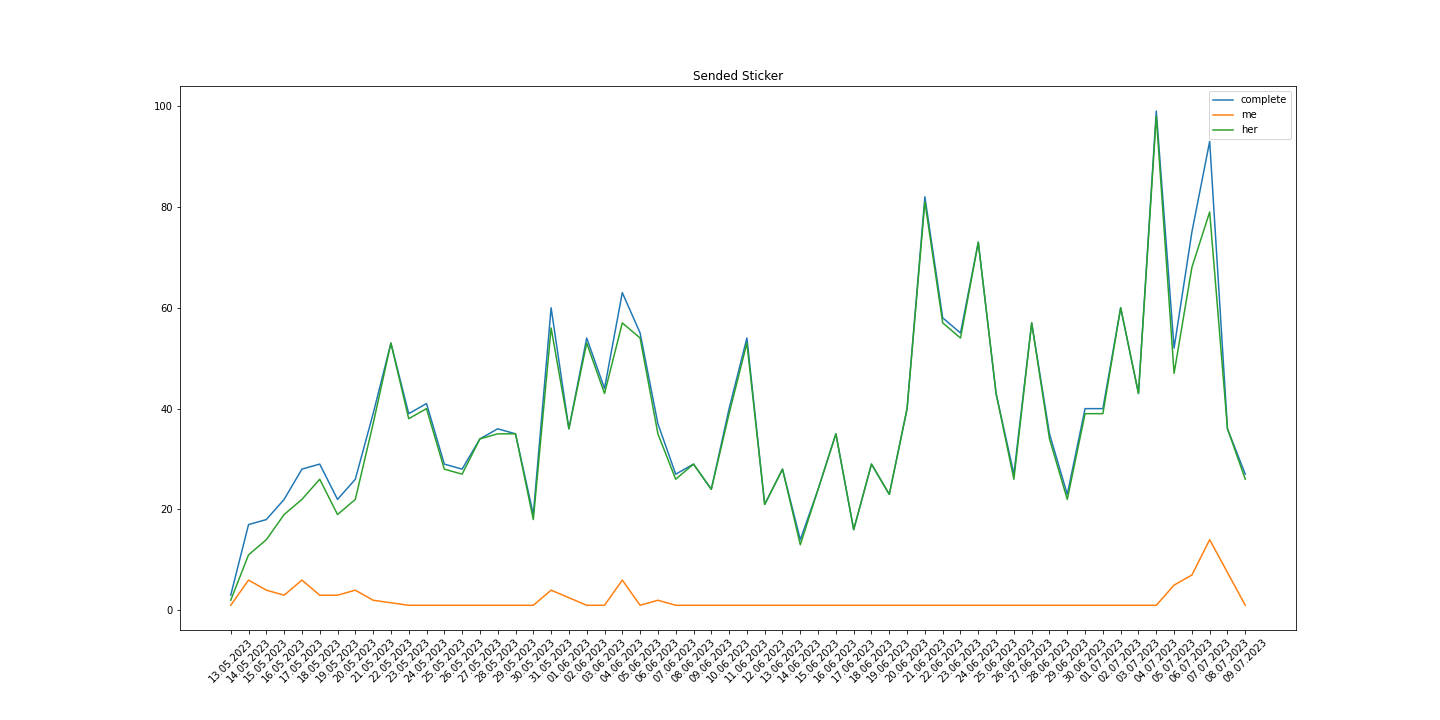
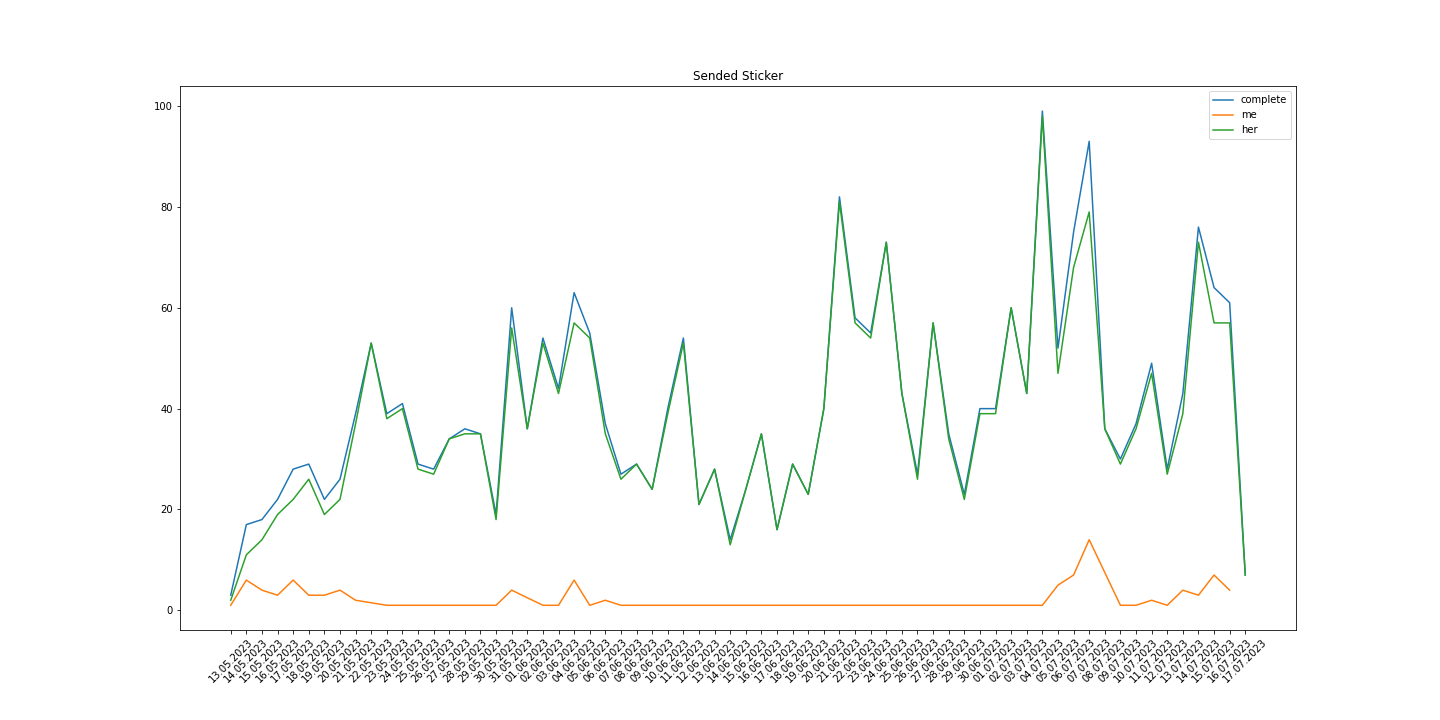
Update to 17.07.2023

diff --git a/index.html b/index.html
@@ -1,7 +1,7 @@
 <!doctype html>
 <html>
 <head>
-    <title>Tobia_x_Shuyan_Chatanalysis_2023-05-13-2023-07-09</title>
+    <title>Tobia_x_Shuyan_Chatanalysis_2023-05-13-2023-07-17</title>
     <meta charset='utf-8'>
     <meta http-equiv='Content-type' content='text/html; charset=utf-8'>
     <meta name='viewport' content='width=device-width, initial-scale=1'>    <style>
@@ -35,53 +35,55 @@
 
         <h1 style='text-align:center'>Chat Analysis</h1>
         <h2 style='text-align:center'>🔥Tobia x Shuyan🔥</h2>
-        <h3 style='text-align:center;font-weight:normal;''>Between 13.05.2023 - 09.07.2023</h3>
-        <p style='text-align:left;font-weight:normal;''>Dear 淑妍,<br>I hope you doing great darling.<br>You know I love data and my work is data.<br>So I decided to use my skills to analyze our chat.<br>I hope you find it interesting. I had much fun doing that!<br>I needed 989 code lines, defined 36 functions and used a total of 488 variables.</p>
+        <h3 style='text-align:center;font-weight:normal;''>Between 13.05.2023 - 17.07.2023</h3>
+        <p style='text-align:left;font-weight:normal;''>Dear 淑妍,<br>I hope you doing great darling.<br>You know I love data and my work is data.<br>So I decided to use my skills to analyze our chat.<br>I hope you find it interesting. I had much fun doing that!<br>I needed 1006 code lines, defined 37 functions and used a total of 489 variables.</p>
         <p style='text-align:left;font-weight:normal;''>>>> Chat-Analysis Results: Tobia and Shuyan <<<<br><br>(me=Tobia=托比亚, her=Shuyan=书言)</p>
-        <p style='text-align:left;font-weight:normal;''>Amount of messages: 25748<br>&emsp;from me: 11415<br>&emsp;from her: 14333<br></p>
-        <p style='margin-top:50px'></p>
-        <p style='text-align:left;font-weight:normal;''>Amount of text messages:20936<br>Average amount of text messages per day:360.9655172413793<br>&emsp;from me:174.6206896551724<br>&emsp;from her:186.3448275862069<br></p>
-        <p style='margin-top:50px'></p>
-        <p style='text-align:left;font-weight:normal;''>Amount of words:144095<br>Average amount of text messages per day:2484.396551724138<br>&emsp;from me:1637.9137931034484<br>&emsp;from her:846.4827586206897<br>Top used words:<br>&emsp;1. I (6832)<br>&emsp;2. you (5460)<br>&emsp;3. to (3335)<br>&emsp;4. the (2888)<br>&emsp;5. and (2527)<br></p>
-        <p style='margin-top:50px'></p>
-        <p style='text-align:left;font-weight:normal;''>Amount of pictures:1433<br>Average amount of picture messages per day:24.70689655172414<br>&emsp;from me:13.482758620689655<br>&emsp;from her:11.421052631578947<br></p>
-        <p style='margin-top:50px'></p>
-        <p style='text-align:left;font-weight:normal;''>Amount of video:627<br>Average amount of video messages per day:10.810344827586206<br>&emsp;from me:5.724137931034483<br>&emsp;from her:5.086206896551724<br></p>
-        <p style='margin-top:50px'></p>
-        <p style='text-align:left;font-weight:normal;''>Amount of emoji:35901<br>Average amount of emoji messages per day:618.9827586206897<br>&emsp;from me:364.17241379310343<br>&emsp;from her:259.280701754386<br>Top used emoji:<br>&emsp;1. 🥰 (7505)<br>&emsp;2. 😂 (7251)<br>&emsp;3. 😘 (7106)<br>&emsp;4. 🤣 (4120)<br>&emsp;5. 😅 (1458)<br></p>
-        <p style='margin-top:50px'></p>
-        <p style='text-align:left;font-weight:normal;''>Amount of sticker:2289<br>Average amount of sticker messages per day:39.46551724137931<br>&emsp;from me:2.4473684210526314<br>&emsp;from her:37.86206896551724<br></p>
-        <p style='margin-top:50px'></p>
-        <p style='text-align:left;font-weight:normal;''>58 in a row daily written! From 13.05.2023 to 09.07.2023 🔥</p>
         <p style='margin-top:50px'></p>
         <p style='margin-top:50px'></p>
+        <p style='text-align:left;font-weight:normal;''>Amount of messages: 29343<br>&emsp;from me: 13040<br>&emsp;from her: 16303<br></p>
         <p style='margin-top:50px'></p>
-        <div style='text-align:center'><img src="sended_message_types.png" width='50%' style='text-align:center'><img/></div>
+        <p style='text-align:left;font-weight:normal;''>Amount of text messages:23838<br>Average amount of text messages per day:361<br>&emsp;from me:176<br>&emsp;from her:185<br></p>
+        <p style='margin-top:50px'></p>
+        <p style='text-align:left;font-weight:normal;''>Amount of words:164803<br>Average amount of words per day:2497<br>&emsp;from me:1630<br>&emsp;from her:867<br>Top used words:<br>&emsp;1. I (7836)<br>&emsp;2. you (6154)<br>&emsp;3. to (3812)<br>&emsp;4. the (3279)<br>&emsp;5. and (2847)<br></p>
+        <p style='margin-top:50px'></p>
+        <p style='text-align:left;font-weight:normal;''>Amount of pictures:1630<br>Average amount of picture messages per day:25<br>&emsp;from me:13<br>&emsp;from her:12<br></p>
+        <p style='margin-top:50px'></p>
+        <p style='text-align:left;font-weight:normal;''>Amount of video:708<br>Average amount of video messages per day:11<br>&emsp;from me:6<br>&emsp;from her:5<br></p>
+        <p style='margin-top:50px'></p>
+        <p style='text-align:left;font-weight:normal;''>Amount of emoji:47914<br>Average amount of emoji messages per day:726<br>&emsp;from me:414<br>&emsp;from her:317<br>Top used emoji:<br>&emsp;1. 😘 (10617)<br>&emsp;2. 🥰 (10389)<br>&emsp;3. 😂 (8776)<br>&emsp;4. 🤣 (5825)<br>&emsp;5. 😅 (1674)<br></p>
+        <p style='margin-top:50px'></p>
+        <p style='text-align:left;font-weight:normal;''>Amount of sticker:2657<br>Average amount of sticker messages per day:40<br>&emsp;from me:3<br>&emsp;from her:39<br></p>
+        <p style='margin-top:50px'></p>
+        <p style='text-align:left;font-weight:normal;''>66 in a row daily written! From 13.05.2023 to 17.07.2023 🔥</p>
+        <p style='margin-top:50px'></p>
+        <p style='margin-top:50px'></p>
+        <p style='margin-top:50px'></p>
+        <div style='text-align:center'><img src="./sended_message_types.png" width='75%' style='text-align:center'><img/></div>
         <p style='text-align:center;font-weight:normal;''>This shows which kind of messages we sent.</p>
         <p style='margin-top:50px'></p>
-        <div style='text-align:center'><img src="sended_message_types_2.png" width='50%' style='text-align:center'><img/></div>
-        <div style='text-align:center'><img src="sended_words.png" width='50%' style='text-align:center'><img/></div>
+        <div style='text-align:center'><img src="./sended_message_types_2.png" width='75%' style='text-align:center'><img/></div>
+        <div style='text-align:center'><img src="./sended_words.png" width='75%' style='text-align:center'><img/></div>
         <p style='text-align:center;font-weight:normal;''>You send more and shorter messages. I send less but longer messages 😊</p>
         <p style='margin-top:50px'></p>
         <p style='margin-top:50px'></p>
         <p style='margin-top:50px'></p>
-        <div style='text-align:center'><img src="sended_pictures.png" width='50%' style='text-align:center'><img/></div>
-        <div style='text-align:center'><img src="sended_audio.png" width='50%' style='text-align:center'><img/></div>
+        <div style='text-align:center'><img src="./sended_pictures.png" width='75%' style='text-align:center'><img/></div>
+        <div style='text-align:center'><img src="./sended_audio.png" width='75%' style='text-align:center'><img/></div>
         <p style='text-align:center;font-weight:normal;''>I love pictures, you love audios 🥰</p>
         <p style='margin-top:50px'></p>
-        <div style='text-align:center'><img src="sended_sticker.png" width='50%' style='text-align:center'><img/></div>
+        <div style='text-align:center'><img src="./sended_sticker.png" width='75%' style='text-align:center'><img/></div>
         <p style='text-align:center;font-weight:normal;''>You love Stickers 😘</p>
-        <div style='text-align:center'><img src="sended_emojis.png" width='50%' style='text-align:center'><img/></div>
+        <div style='text-align:center'><img src="./sended_emojis.png" width='75%' style='text-align:center'><img/></div>
         <p style='text-align:center;font-weight:normal;''>I’m more the oldschool emoji user 😊😂</p>
         <p style='margin-top:50px'></p>
         <p style='margin-top:50px'></p>
         <p style='margin-top:50px'></p>
         <p style='text-align:left;font-weight:normal;''>At least I created word clouds from all our sent messages:</p>
-        <div style='text-align:center;float:left;'><img src="wordcloud_1.png" width='100%' style='text-align:center'><img/></div>
-        <div style='text-align:center;float:left;'><img src="wordcloud_2.png" width='100%' style='text-align:center'><img/></div>
-        <div style='text-align:center;float:left;'><img src="wordcloud_3.png" width='100%' style='text-align:center'><img/></div>
-        <div style='text-align:center;float:left;'><img src="wordcloud_4.png" width='100%' style='text-align:center'><img/></div>
-        <div style='text-align:center;float:left;'><img src="wordcloud_5.png" width='100%' style='text-align:center'><img/></div>
+        <div style='text-align:center;float:left;'><img src="./wordcloud_1.png" width='100%' style='text-align:center'><img/></div>
+        <div style='text-align:center;float:left;'><img src="./wordcloud_2.png" width='100%' style='text-align:center'><img/></div>
+        <div style='text-align:center;float:left;'><img src="./wordcloud_3.png" width='100%' style='text-align:center'><img/></div>
+        <div style='text-align:center;float:left;'><img src="./wordcloud_4.png" width='100%' style='text-align:center'><img/></div>
+        <div style='text-align:center;float:left;'><img src="./wordcloud_5.png" width='100%' style='text-align:center'><img/></div>
 
 </body>
 </html>
